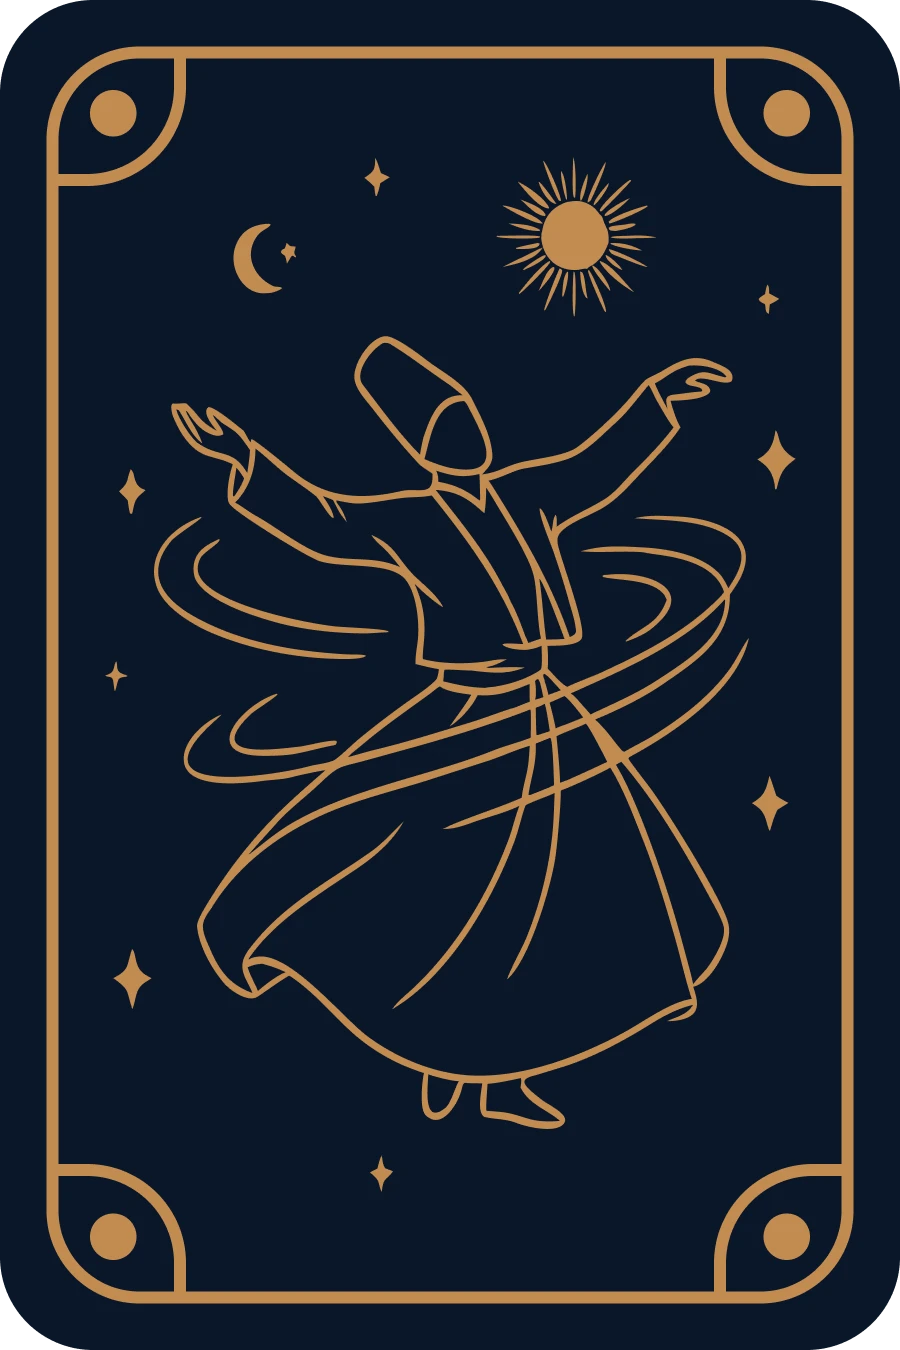
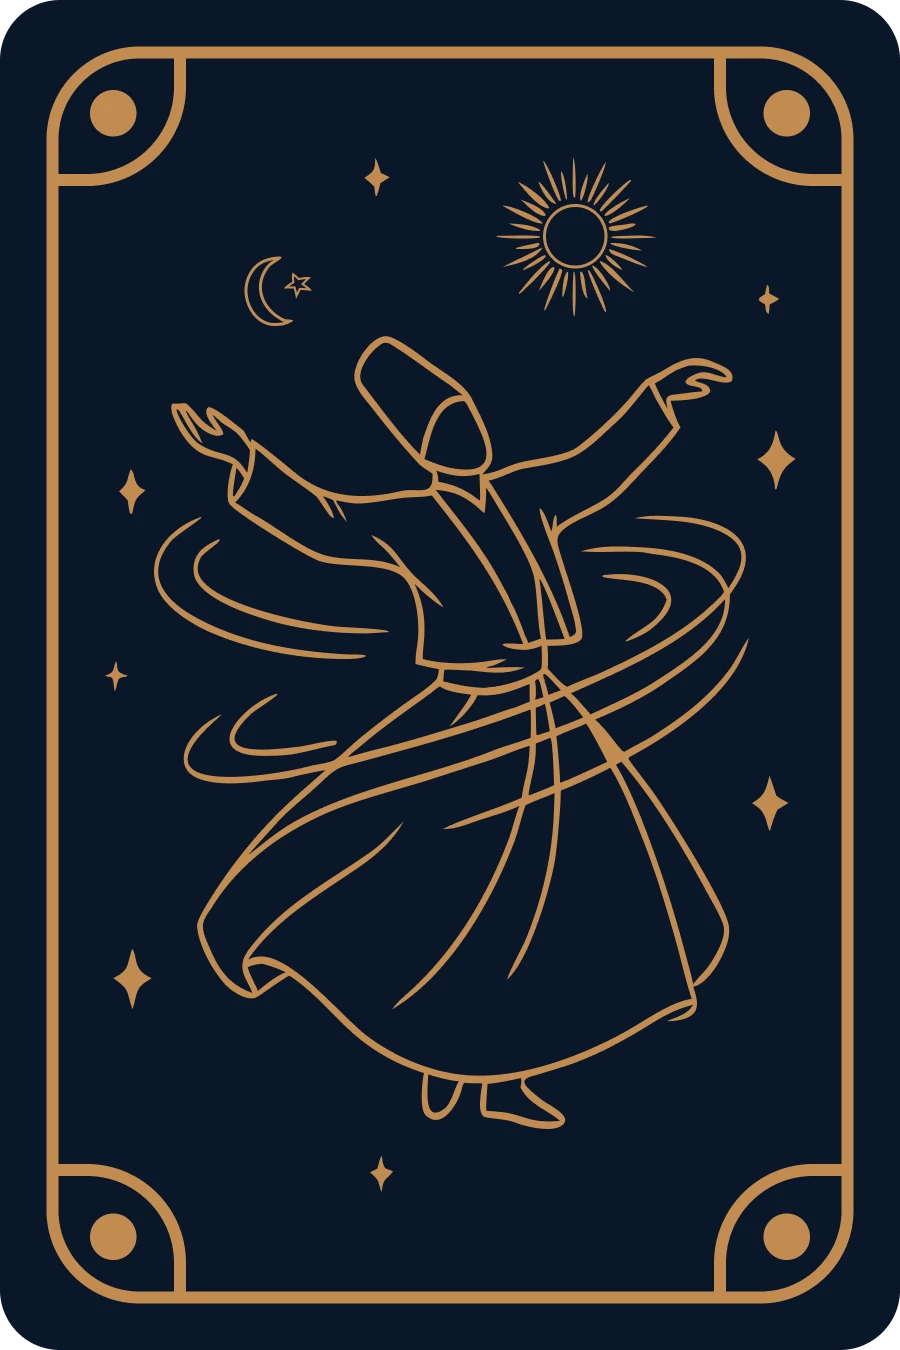
publishing new post

diff --git a/_layouts/post.html b/_layouts/post.html
@@ -71,7 +71,7 @@
     }
 
     .subtitle {
-      font-size: 1.8rem;
+      font-size: clamp(1.2rem, 3vw, 1.8rem);
       color: var(--muted);
       margin-top: -0.5rem;
       margin-bottom: 2rem;

diff --git a/_journal/dunia-sophie.md b/_journal/dunia-sophie.md
@@ -1,0 +1,44 @@
+---
+layout: post
+title: "Dunia Sophie"
+author: "A book by Jostein Gaarder"
+thumbnail: "/assets/journal/dunia-sophie.webp"
+---
+
+- Sering kali pada titik terdalam ruh tersentuh dan terisi bukan oleh hal-hal material, bukan oleh kekuasaan dan kedudukan, bukan oleh sukses karier spektakuler atau popularitas, bahkan bukan juga oleh doktrin agama, melainkan oleh rasa penasaran, petualangan pencarian, keharuan, keheranan, atau kekaguman, yang sering demikian misterius. (15)
+- Tidak ada sesuatu yang dapat muncul dari ketiadaan. Dan, tidak ada sesuatu pun yang ada dapat menjadi tiada. (73)
+- Anaxagoras juga menarik karena dia adalah filosof pertama yang kita dengar dari Athena. Dia berasal dari Asia Kecil, tetapi pindah ke Athena pada usia empat puluh. Di kemudian hari, dia dituduh ateis dan akhirnya dipaksa meninggalkan kota. Antara lain, dia mengatakan bahwa matahari bukanlah dewa. (80)
+- Mengapa orang-orang berhenti bermain ketika mereka bertambah dewasa? (86)
+- Jalan menuju kesehatan bagi setiap orang adalah melalui sikap moderat, keselarasan, dan “jiwa yang sehat di dalam badan yang sehat”. (102)
+- Agar demokrasi dapat dijalankan, orang-orang harus cukup berpendidikan agar dapat ambil bagian delam proses demokrasi. (113)
+- Dan yang tak kalah penting, mereka percaya bahwa mereka berbicara atas nama sesuatu yang lebih besar daripada mereka sendiri. Mereka menantang kekuasaan masyarakat dengan mengecam segala bentuk ketidakadilan dan korupsi. Dan akhirnya aktivitas-aktivitas mereka mengakibatkan mereka kehilangan nyawa. (120)
+- Dapatkah kamu menjalani kehidupan yang bahagia jika kamu terus melakukan hal-hal yang jauh di lubuk hati kamu tahu salah? Banyak sekali orang yang berbohong dan menipu dan menjelek-jelekkan orang lain. Apakah mereka sadar bahwa semua ini tidak benar atau tidak adil? Apakah kamu pikir orang-orang ini bahagia? Menurut Socrates tidak. (125)
+- Hanya dengan menjaga keseimbangan dan kesederhanaan sajalah, maka aku dapat mencapai kehidupan yang bahagia atau "selaras". (192)
+- Akal sehat tidak ditentukan oleh lingkungan. Setiap orang memilikinya. Dengan menggunakan kecerdasan mereka, setiap individu dapat mulai menyeret diri mereka sendiri keluar dari kegelapan. Tapi perjalanan semacam itu membutuhkan keberanian pribadi. (205)
+- Tapi, harus diingat bahwa memiliki hati nurani tidak sama dengan menggunakannya. (206)
+- Kota Alexandria memainkan peranan menentukan di sini sebagai tempat pertemuan antara Timur dan Barat. Sementara Athena tetap merupakan pusat filsafat yang masih menjalankan ajaran-ajaran filsafat Plato dan Aristoteles, Alexandria menjadi pusat ilmu pengetahuan. Dengan perpustakaannya yang sangat besar, kota itu menjadi pusat matematika, astronomi, biologi, dan ilmu pengobatan. (211)
+- Kebahagiaan sejati tidak terdapat dalam kelebihan lahiriah seperti kemewahan materi, kekuasaan politik, atau kesehatan yang baik. Kebahagiaan sejati terletak pada ketidaktergantungan pada segala sesuatu yang acak dan mengambang. Dan karena kebahagiaan tidak terletak pada keuntungan-keuntungan semacam ini, semua orang dapat meraihnya. (213)
+- Tidak ada sesuatu yang terjadi secara kebetulan. Segala sesuatu terjadi karena ada sebabnya. Maka, tidak ada gunanya mengeluh jika takdir sudah datang mengetuk pintu. (215)
+- Untuk menikmati hidup diperluhkan kontrol-diri, kesederhanaan, dan ketulusan. (217)
+- "Kematian tidak menakutkan kita. Sebab, selama kita ada, kematian tidak bersama kita. Dan ketika ia datang, kita tidak ada lagi". Epicurus (218)
+- Kegelapan ini sesungguhnya tidak ada. la hanyalah ketiadaan cahaya. Yang ada hanyalah Tuhan, atau Yang Esa, tapi sebagaimana suatu cahaya semakin lama intensitasnya semakin kecil dan akhirnya lenyap, di suatu tempat ada suatu titik yang tidak terjangkau oleh cahaya Ilahi. Jiwa disinari oleh cahaya dari Yang Esa, sementara materi adalah kegelapan yang tidak mempunyai keberadaan yang nyata. Tapi bentuk-bentuk di alam ini mendapatkan sedikit cahaya dari Yang Esa. (220)
+- Apa yang biasanya kita sebut "Aku" bukanlah "Aku" yang senenarnya. Kamulah semesta raya. (222)
+- Sesungguhnya, kegelapan itu tidak mempunyai keberadaan sendiri. Itu hanya karena tidak ada cahaya. (230)
+- Kamu mungkin mempunyai hak untuk menggerakkan ibu jarimu ke arah mana pun yang kamu sukai. Tapi ibu jarimu hanya dapat bergerak sesuai dengan alamnya. Ia tidak dapat melompat dari tanganmu dan menari di sekeliling ruangan. Dengan cara yang sama kamu pun mempunyai tempat di dalam struktur eksistensi. Kamu adalah Sophie, tapi kamu juga sepotong jari dari badan Tuhan. (394)
+- Jika kita mengakui bahwa segala sesuatu terjadi karena memang harus terjadi, kita akan mendapatkan pemahaman intuitif tentang alam secara menyeluruh. Kita dapat sampai pada kesadaran yang benar-benar jernih bahwa segala sesuatu itu saling terkait, bahkan segala sesuatu itu adalah Satu. Tujuannya adalah memahami semua yang ada dalam suatu persepsi yang mencakup keseluruhan. Dengan begitu, barulah kita dapat meraih kebahagiaan dan kepuasan sejati. (398)
+- Dan meskipun aku hanya pernah melihat burung gagak hitam sepanjang hidupku, bukan berarti bahwa burung gagak putih itu tidak ada. Bagi seorang filosof atau seorang ilmuwan adalah penting untuk tidak menyangkal kemungkinan untuk menemukan burung gagak putih. Kamu boleh mengatakan bahwa memburu 'burung gagak putih' merupakan tugas utama ilmu pengetahuan. (435)
+- Segala sesuatu yang kita lihat dan kita rasakan adalah 'akibat kekuasaan Tuhan'. Sebab, Tuhan 'hadir dekat sekali di dalam kesadaran kita, yang menyebabkan melimpahnya gagasan-gagasan dan persepsi-persepsi yang terus-menerus kita ikuti'. Seluruh dunia di sekeliling kita dan seluruh kehidupan kita ada dalam diri Tuhan. Dialah satu-satunya penyebab dari segala sesuatu yang ada. Kita ada hanya di dalam pikiran Tuhan. (445)
+- "Aku khawatir bahwa tidak ada yang benar-benar nyata." "Itu disebut kegelisahan eksistensial, atau ketakutan, dan biasanya itu hanyalah salah satu tahap menuju kesadaran baru." (481)
+- Kant mengemukakan perbedaan jelas antara 'benda itu sendiri' dan 'benda itu bagiku'. Kita tidak pernah dapat mempunyai pengetahuan tentang benda-benda 'itu sendiri'. Kita hanya dapat mengetahui bagaimana benda-benda itu 'tampak' bagi kita. (507)
+- Aktivitas seniman itu seperti bermain-main, dan manusia hanya bisa bebas saat dia bermain, sebab saat itulah dia menciptakan aturan-aturannya sendiri. Hanya seni yang dapat membawa kita semakin dekat pada 'yang tak terungkapkan'. Sebagian orang bahkan melangkah begitu jauh dengan membandingkan seniman dengan Tuhan. Sebab seniman menciptakan realitasnya sendiri sebagaimana Tuhan menciptakan dunia. (536)
+- Alam adalah ruh yang dapat dilihat, ruh adalah alam yang tidak dapat dilihat. Schelling (542)
+- Ruh dunia karenanya dapat dicari, baik di alam maupun dalam pikiran manusia sendiri. Novalis karenanya dapat mengatakan 'jalan misteri itu mengarah ke dalam batin'. Dia menyatakan bahwa manusia menyimpan seluruh alam raya itu dalam dirinya sendiri dan dapat paling dekat menyentuh misteri itu dengan melangkah masuk ke dalam dirinya sendiri. Novalis (542)
+- "Karena telah kelelahan dalam perjuangan abadi untuk menemukan jalan menembus materi kasar, kami memilih jalan lain dan berusaha untuk merengkuh yang tak terbatas. Kami masuk ke dalam diri sendiri dan menciptakan suatu dunia baru." Henrik Steffens (543)
+- Darwin lebih jauh mengemukakan bahwa perjuangan untuk bertahan hidup yang paling berat sering kali terjadi di antara spesies-spesies yang paling mirip satu sama lain. Mereka harus berjuang untuk mendapatkan makanan yang sama. Semakin sengit perjuangan untuk bertahan hidup, semakin cepat terjadinya evolusi spesies baru, sehingga hanya yang paling mampu menyesuaikan dirinyalah yang akan bertahan dan yang lain-lainnya akan mati. (639)
+- Seseorang yang mengatakan bahwa dia tidak mengerti seni berarti dia tidak mengenal dirinya sendiri dengan baik. (679)
+- Aku hendak mengatakan sesuatu mengenai pentingnya imajinasi bagi para filosof. Agar dapat memperoleh pemikiran baru, kita harus cukup berani membiarkan diri kita bebas. (684)
+- Dia bertanya-tanya dalam hati apa yang dipikirkan semua orang di sini tentang kehidupan. Kelihatannya mereka sudah mengesampingkan pemikiran semacam itu. (697)
+- Kebebasan mewajibkan kita untuk memanfaatkan diri kita sendiri, untuk hidup dengan cara yang 'asli' atau 'jujur'. (704)
+- Adalah penting untuk bersikap kritis terhadap nilai-nilai dari generasi yang lebih tua. (739)
+- Semua yang dapat kita lihat di langit merupakan fosil kosmik dari ribuan dan jutaan tahun yang lalu. (782)
+- Jika kita melihat ke langit, kita sedang berusaha untuk menemukan jalan kembali kepada diri kita sendiri. (783)

diff --git a/_journal/oneness.md b/_journal/oneness.md
@@ -1,0 +1,12 @@
+---
+layout: post
+title: " "
+thumbnail: "/assets/journal/oneness.webp"
+---
+<!--
+Kata kunci keesaan
+
+- Cahaya
+- Rasa
+- Rahasia
+-->

diff --git a/_journal/peran.md b/_journal/peran.md
@@ -1,6 +1,7 @@
 ---
 layout: post
 title: "Peran"
+author: "Self Reflection"
 thumbnail: "/assets/journal/peran.webp"
 ---
 
@@ -22,4 +23,4 @@ Ataukah peran Anda sebagai seorang mantan pemain sepak bola dengan raihan seguda
 
 Hindari memainkan peran yang tidak dibagikan untuk Anda, kecuali jika Anda memang memerankan orang konyol, maka sudah pasti Anda akan terlihat konyol.
 
-Ingatlah, tidak ada peran yang sama di muka bumi ini. Jika Anda hanya menduplikasi peran orang lain, maka Anda tidak akan eksis, hanya menjadi bayangan panggung. Anda menjadi manusia yang berharga ketika Anda memerankan peran diri sejati Anda.
+Ingatlah, tidak ada peran yang sama di muka bumi ini. Jika Anda hanya menduplikasi peran orang lain, maka Anda tidak akan eksis, hanya menjadi bayangan panggung. Hidupilah peran Anda karena hanya Anda yang bisa menghayatinya. Tidak ada orang lain yang bisa menggantikannya untuk Anda. Anda menjadi manusia yang berharga ketika Anda memerankan peran diri sejati Anda.